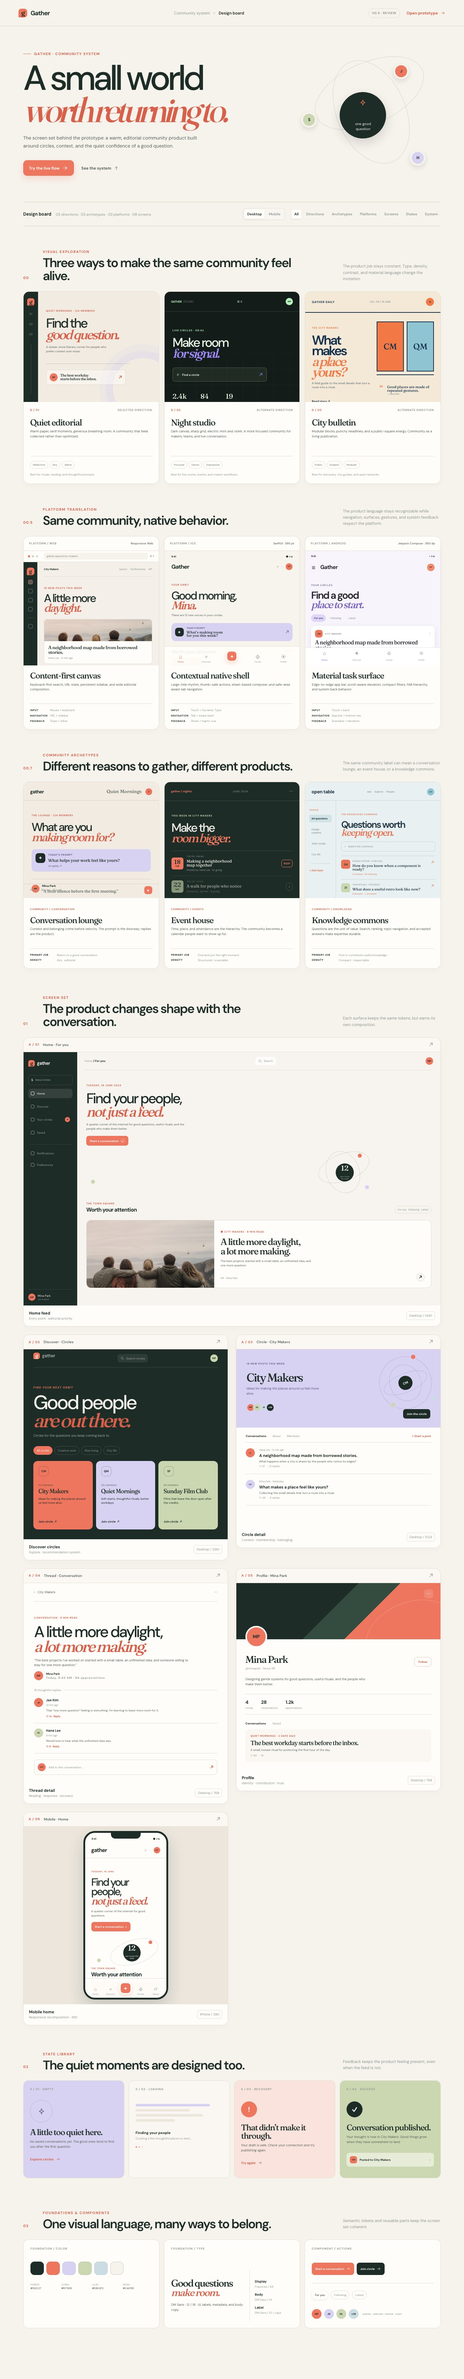
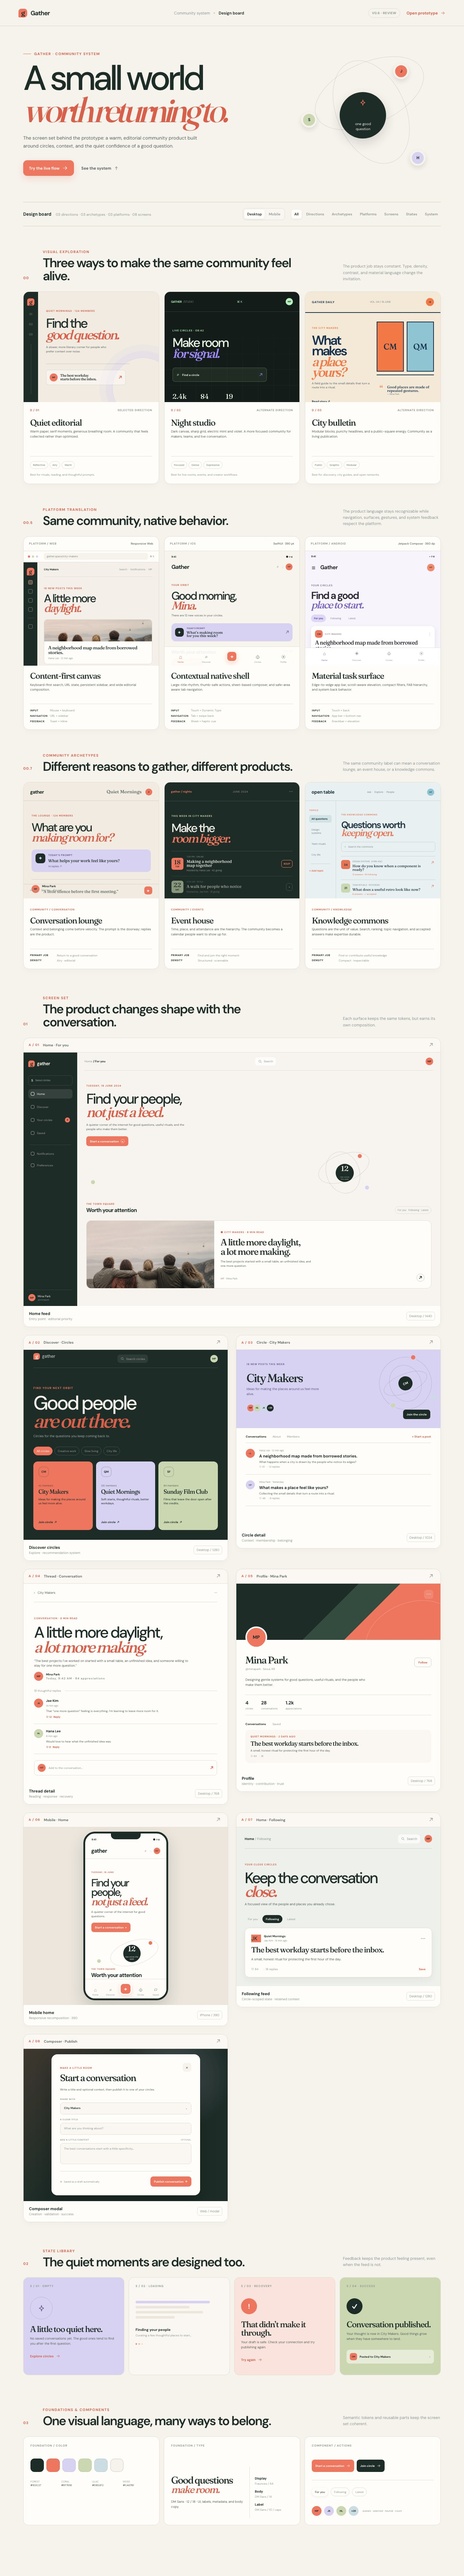
feat: expand community design handoff coverage

diff --git a/examples/community/board.css b/examples/community/board.css
@@ -195,6 +195,10 @@ button:focus-visible, a:focus-visible { outline: 3px solid rgba(239,118,94,.4); 
 /* miniature Profile screen */
 .canvas-profile { min-height: 490px; background: var(--surface); }.profile-cover { position: relative; height: 155px; background: linear-gradient(135deg, var(--forest) 0 47%, #344c40 47% 63%, var(--coral) 63%); }.profile-cover:after { position: absolute; right: -50px; bottom: -80px; width: 260px; height: 180px; border: 1px solid rgba(255,255,255,.25); border-radius: 50%; content: ""; transform: rotate(-23deg); }.profile-cover > span { position: absolute; bottom: -23px; left: 25px; z-index: 1; display: grid; place-items: center; width: 60px; height: 60px; border: 4px solid var(--surface); border-radius: 50%; background: var(--coral); color: var(--forest); font-size: 13px; font-weight: 700; }.profile-cover > button { position: absolute; top: 17px; right: 20px; width: 25px; height: 25px; border-radius: 7px; background: rgba(255,255,255,.12); color: white; }.profile-content { padding: 39px 25px 22px; }.profile-head { display: flex; align-items: center; justify-content: space-between; }.profile-head h3 { margin: 0 0 3px; color: var(--forest); font-family: var(--serif); font-size: 27px; font-weight: 500; letter-spacing: -.06em; }.profile-head p { margin: 0; color: var(--ink-faint); font-size: 8px; }.profile-head button { padding: 7px 10px; border: 1px solid var(--line-strong); border-radius: 7px; background: transparent; color: var(--coral-deep); font-size: 8px; font-weight: 700; }.profile-bio { max-width: 350px; margin: 19px 0; color: var(--ink-soft); font-size: 9px; line-height: 1.55; }.profile-stats { display: flex; gap: 22px; padding: 13px 0; border-top: 1px solid var(--line); border-bottom: 1px solid var(--line); }.profile-stats span { display: grid; gap: 3px; color: var(--ink-faint); font-size: 7px; }.profile-stats b { color: var(--forest); font-size: 13px; }.profile-tabs { display: flex; gap: 18px; padding: 19px 0 11px; color: var(--ink-faint); font-size: 8px; }.profile-tabs b { color: var(--ink); }.profile-post { display: grid; gap: 6px; padding: 14px; border-radius: 10px; background: var(--surface-soft); }.profile-post small { color: var(--coral-deep); font-size: 7px; font-weight: 700; letter-spacing: .1em; }.profile-post strong { color: var(--forest); font-family: var(--serif); font-size: 17px; font-weight: 500; letter-spacing: -.05em; line-height: 1.04; }.profile-post p { margin: 0; color: var(--ink-soft); font-size: 8px; }.profile-post span { color: var(--ink-faint); font-size: 7px; }
 
+/* miniature state and creation screens */
+.canvas-filtered { min-height: 420px; padding: 20px 23px 24px; background: #edf0eb; }.filtered-topbar { display: flex; align-items: center; gap: 12px; padding-bottom: 14px; border-bottom: 1px solid rgba(29,44,39,.14); color: var(--ink-faint); font-size: 9px; }.filtered-topbar > span:first-child { flex: 1; }.filtered-topbar > span:first-child b { color: var(--forest); }.filtered-topbar .mini-search { display: inline-flex; }.filtered-hero { padding: 30px 0 22px; }.filtered-hero small { color: var(--coral-deep); font-size: 7px; font-weight: 700; letter-spacing: .12em; }.filtered-hero h3 { margin: 11px 0 10px; color: var(--forest); font-size: clamp(28px, 4vw, 42px); font-weight: 500; letter-spacing: -.09em; line-height: .9; }.filtered-hero h3 em { color: var(--coral-deep); font-family: var(--serif); font-weight: 500; }.filtered-hero p { max-width: 350px; margin: 0; color: var(--ink-soft); font-size: 9px; line-height: 1.55; }.filtered-tabs { display: flex; gap: 4px; margin-bottom: 13px; }.filtered-tabs span { padding: 6px 9px; border-radius: 999px; color: var(--ink-faint); font-size: 8px; }.filtered-tabs .selected { background: var(--forest); color: var(--paper); font-weight: 700; }.filtered-post { display: grid; gap: 10px; padding: 17px; border: 1px solid var(--line); border-radius: 13px; background: var(--surface); box-shadow: 0 8px 18px rgba(39,45,41,.05); }.filtered-post-head { display: grid; grid-template-columns: 27px 1fr auto; gap: 8px; align-items: center; }.filtered-post-head > span:nth-child(2) { display: grid; gap: 3px; }.filtered-post-head b { color: var(--forest); font-size: 8px; }.filtered-post-head small { color: var(--ink-faint); font-size: 7px; }.filtered-post-head i { color: var(--ink-faint); font-size: 10px; font-style: normal; letter-spacing: .08em; }.filtered-post > strong { color: var(--forest); font-family: var(--serif); font-size: 21px; font-weight: 500; letter-spacing: -.05em; line-height: 1; }.filtered-post > p { margin: 0; color: var(--ink-soft); font-size: 9px; line-height: 1.5; }.filtered-post-actions { display: flex; gap: 13px; padding-top: 4px; color: var(--ink-faint); font-size: 8px; }.filtered-post-actions b { margin-left: auto; color: var(--coral-deep); }
+.canvas-composer { display: grid; place-items: center; min-height: 420px; background: var(--forest); }.composer-backdrop { position: absolute; inset: 0; background: radial-gradient(circle at 75% 18%, rgba(216,210,242,.28), transparent 28%), linear-gradient(135deg, rgba(239,118,94,.2), transparent 48%); opacity: .8; }.board-composer-card { position: relative; width: min(410px, calc(100% - 34px)); padding: 24px; border-radius: 16px; background: var(--surface); box-shadow: 0 22px 45px rgba(0,0,0,.22); }.board-composer-head { display: flex; align-items: flex-start; justify-content: space-between; gap: 14px; }.board-composer-head small { color: var(--coral-deep); font-size: 7px; font-weight: 700; letter-spacing: .12em; }.board-composer-head h3 { margin: 8px 0 0; color: var(--forest); font-family: var(--serif); font-size: 26px; font-weight: 500; letter-spacing: -.07em; line-height: .95; }.board-composer-head > span { display: grid; place-items: center; width: 24px; height: 24px; border-radius: 7px; background: var(--paper); color: var(--ink-soft); font-size: 14px; }.board-composer-copy { margin: 13px 0 17px; color: var(--ink-soft); font-size: 8px; line-height: 1.5; }.board-field { display: grid; gap: 5px; margin-top: 10px; }.board-field > small { color: var(--ink-faint); font-size: 6px; font-weight: 700; letter-spacing: .1em; }.board-field > small i { float: right; font-style: normal; font-weight: 400; letter-spacing: 0; }.board-field > b { min-height: 33px; padding: 9px 10px; border: 1px solid var(--line); border-radius: 8px; background: var(--surface-soft); color: var(--forest); font-size: 8px; font-weight: 600; }.board-field > b span { float: right; color: var(--ink-faint); }.board-field > .field-placeholder { color: var(--ink-faint); font-weight: 400; }.board-field-large > b { min-height: 58px; line-height: 1.45; }.board-composer-footer { display: flex; align-items: center; justify-content: space-between; gap: 10px; margin-top: 19px; padding-top: 14px; border-top: 1px solid var(--line); }.board-composer-footer > span { color: var(--ink-faint); font-size: 7px; }.board-composer-footer > span i { display: inline-block; width: 5px; height: 5px; margin-right: 4px; border-radius: 50%; background: var(--moss); }.board-composer-footer > strong { padding: 9px 10px; border-radius: 8px; background: var(--coral); color: white; font-size: 8px; }
+
 /* miniature mobile screen */
 .canvas-mobile { display: grid; place-items: center; min-height: 490px; background: var(--paper-deep); }.phone-frame { position: relative; width: 234px; height: 465px; overflow: hidden; border: 5px solid var(--forest); border-radius: 32px; background: var(--surface); box-shadow: 0 20px 45px rgba(29,44,39,.18); }.phone-notch { position: absolute; top: 0; left: 50%; z-index: 2; width: 82px; height: 16px; border-radius: 0 0 12px 12px; background: var(--forest); transform: translateX(-50%); }.phone-status { display: flex; justify-content: space-between; padding: 12px 18px 0; color: var(--forest); font-size: 7px; font-weight: 700; }.phone-top { display: flex; align-items: center; justify-content: space-between; padding: 17px 17px 11px; border-bottom: 1px solid var(--line); color: var(--forest); font-size: 11px; }.phone-top > b { font-size: 15px; letter-spacing: -.06em; }.phone-top > span { display: flex; align-items: center; color: var(--ink-faint); font-size: 10px; }.phone-top i { display: grid; place-items: center; width: 18px; height: 18px; border-radius: 50%; background: var(--coral); color: var(--forest); font-size: 6px; font-style: normal; }.phone-body { padding: 23px 17px 74px; }.phone-kicker, .phone-section small, .phone-story > span { color: var(--coral-deep); font-size: 6px; font-weight: 700; letter-spacing: .12em; }.phone-body h3 { margin: 9px 0 8px; color: var(--forest); font-size: 29px; font-weight: 500; letter-spacing: -.09em; line-height: .9; }.phone-body > p { max-width: 180px; margin: 0 0 12px; color: var(--ink-soft); font-size: 8px; line-height: 1.5; }.phone-body > button { padding: 8px 10px; border-radius: 7px; background: var(--coral); color: white; font-size: 8px; font-weight: 700; }.phone-orbit { position: relative; height: 85px; margin-top: 13px; }.phone-orbit:before { position: absolute; top: 10px; right: 3px; width: 135px; height: 65px; border: 1px solid rgba(29,44,39,.14); border-radius: 50%; content: ""; transform: rotate(-17deg); }.phone-orbit span { position: absolute; top: 22px; right: 54px; display: grid; place-items: center; width: 48px; height: 48px; border-radius: 50%; background: var(--forest); color: white; font-family: var(--serif); font-size: 20px; line-height: .7; }.phone-orbit span small { margin-top: 4px; font-family: var(--sans); font-size: 5px; line-height: 1.2; text-align: center; }.phone-orbit i { position: absolute; z-index: 1; width: 14px; height: 14px; border: 2px solid var(--surface); border-radius: 50%; }.phone-orbit i:nth-child(1) { top: 10px; right: 20px; background: var(--coral); }.phone-orbit i:nth-child(2) { top: 60px; left: 14px; background: var(--moss); }.phone-section { display: grid; gap: 3px; margin-bottom: 9px; }.phone-section b { color: var(--forest); font-size: 15px; letter-spacing: -.05em; }.phone-story { display: grid; gap: 7px; overflow: hidden; border: 1px solid var(--line); border-radius: 10px; background: var(--surface); }.phone-story > div { height: 82px; background: linear-gradient(145deg, rgba(239,118,94,.13), rgba(29,44,39,.16)), url('./assets/editorial/group-overlook.jpg') center/cover; }.phone-story > span, .phone-story > strong, .phone-story > small { margin: 0 11px; }.phone-story > strong { color: var(--forest); font-family: var(--serif); font-size: 17px; font-weight: 500; letter-spacing: -.06em; line-height: 1.02; }.phone-story > small { padding-bottom: 11px; color: var(--ink-faint); font-size: 7px; }.phone-nav { position: absolute; right: 0; bottom: 0; left: 0; display: grid; grid-template-columns: repeat(5, 1fr); align-items: end; height: 54px; padding: 8px 8px 6px; border-top: 1px solid var(--line); background: rgba(255,253,249,.96); }.phone-nav span { display: grid; justify-items: center; gap: 1px; color: var(--ink-faint); font-size: 13px; }.phone-nav small { font-size: 6px; }.phone-nav b { display: grid; place-items: center; width: 33px; height: 33px; margin: -8px auto 4px; border: 3px solid var(--surface); border-radius: 11px; background: var(--coral); color: white; box-shadow: 0 5px 12px rgba(239,118,94,.25); }
 
@@ -213,7 +217,7 @@ button:focus-visible, a:focus-visible { outline: 3px solid rgba(239,118,94,.4); 
   .board-header { min-height: 62px; }.board-crumb, .version-chip { display: none; }.open-prototype { font-size: 10px; }.board-main { padding-right: 16px; padding-left: 16px; }.board-intro { display: block; min-height: 0; padding: 55px 0 42px; }.board-intro h1 { font-size: clamp(54px, 16vw, 88px); }.intro-description { font-size: 12px; }.intro-art { width: 270px; height: 230px; margin: 35px auto 0; transform: none; }.intro-art-center { top: 64px; right: 85px; width: 106px; height: 106px; }.ring-a { width: 260px; height: 140px; }.ring-b { right: 42px; width: 170px; height: 220px; }.orb-a { top: 7px; right: 32px; }.orb-b { top: 108px; left: 7px; }.orb-c { right: 0; bottom: 7px; }.board-toolbar { display: block; }.board-toolbar-label { display: grid; gap: 3px; margin-bottom: 13px; }.board-controls { justify-content: space-between; gap: 6px; overflow: auto; }.board-filters { flex: 0 0 auto; }.board-section { padding-top: 55px; }.section-marker { grid-template-columns: 25px 1fr; gap: 12px; align-items: start; }.section-marker > span { padding-top: 3px; }.section-marker .section-note { grid-column: 2; margin-top: -3px; }.section-marker h2 { font-size: 27px; }.artboard-canvas { min-height: 410px; }.canvas-home { grid-template-columns: 1fr; min-height: 460px; }.mini-sidebar { display: none; }.mini-home-body { grid-template-columns: 1fr; padding: 24px 0; }.mini-hello, .mini-section-head, .mini-feature { grid-column: auto; }.mini-orbit { height: 105px; }.mini-feature { grid-template-columns: 42% 1fr; }.canvas-discover { padding-right: 18px; padding-left: 18px; }.discover-cards { grid-template-columns: 1fr; }.circle-tile { min-height: 130px; }.circle-tile > span { float: left; margin: 0 11px 20px 0; }.circle-tile p { min-height: 0; }.circle-cover-art { right: -15px; opacity: .75; }.circle-cover { padding-right: 19px; padding-left: 19px; }.circle-cover > button { right: 19px; }.circle-content { padding-right: 19px; padding-left: 19px; }.circle-tabs { gap: 9px; }.circle-tabs em { display: none; }.canvas-thread { padding-right: 19px; padding-left: 19px; }.thread-title h3 { font-size: 34px; }.profile-content { padding-right: 19px; padding-left: 19px; }.profile-stats { gap: 13px; }.phone-frame { transform: scale(.9); }.state-grid, .system-grid { grid-template-columns: 1fr; }.component-card { grid-column: auto; }.type-card { display: block; }.type-card > .state-index { margin-bottom: 24px; }.type-scale { margin-top: 18px; padding-top: 12px; padding-left: 0; border-top: 1px solid var(--line); border-left: 0; grid-template-columns: repeat(2, 1fr); }.type-scale b { margin-top: 0; }.type-scale span { text-align: right; }.board-dialog .dialog-inner { padding: 25px 20px; }
 }
 @media (max-width: 420px) {
-  .board-header { padding-right: 14px; padding-left: 14px; }.board-brand { font-size: 15px; }.open-prototype { font-size: 9px; }.board-intro h1 { font-size: 56px; }.intro-actions { align-items: flex-start; flex-direction: column; gap: 12px; }.section-marker h2 { font-size: 24px; }.artboard-caption { align-items: flex-start; flex-direction: column; gap: 8px; }.canvas-home { min-height: 470px; }.mini-home { padding-right: 15px; padding-left: 15px; }.mini-feature { grid-template-columns: 38% 1fr; }.mini-feature > div:last-child { padding: 12px; }.mini-feature h4 { font-size: 18px; }.canvas-circle, .canvas-thread, .canvas-profile { min-height: 475px; }.thread-title h3 { font-size: 30px; }.phone-frame { transform: scale(.82); }
+  .board-header { padding-right: 14px; padding-left: 14px; }.board-brand { font-size: 15px; }.open-prototype { font-size: 9px; }.board-intro h1 { font-size: 56px; }.intro-actions { align-items: flex-start; flex-direction: column; gap: 12px; }.section-marker h2 { font-size: 24px; }.artboard-caption { align-items: flex-start; flex-direction: column; gap: 8px; }.canvas-home { min-height: 470px; }.mini-home { padding-right: 15px; padding-left: 15px; }.mini-feature { grid-template-columns: 38% 1fr; }.mini-feature > div:last-child { padding: 12px; }.mini-feature h4 { font-size: 18px; }.canvas-circle, .canvas-thread, .canvas-profile, .canvas-filtered, .canvas-composer { min-height: 475px; }.filtered-hero h3 { font-size: 32px; }.filtered-topbar { gap: 7px; }.filtered-topbar .mini-search { display: none; }.board-composer-card { padding: 19px; }.board-composer-head h3 { font-size: 23px; }.thread-title h3 { font-size: 30px; }.phone-frame { transform: scale(.82); }
 }
 @media (max-width: 1060px) {
   .archetype-grid { grid-template-columns: repeat(2, minmax(0, 1fr)); }

diff --git a/examples/community/board.html b/examples/community/board.html
@@ -35,7 +35,7 @@
     <header class="board-header">
       <a class="board-brand" href="./index.html" aria-label="Back to Gather home"><span class="board-brand-mark">g</span><span>Gather</span></a>
       <div class="board-crumb"><span>Community system</span><i></i><strong>Design board</strong></div>
-      <div class="board-header-actions"><span class="version-chip">v0.5 · review</span><a class="open-prototype" href="./index.html">Open prototype <svg class="board-icon" aria-hidden="true"><use href="#board-arrow" /></svg></a></div>
+      <div class="board-header-actions"><span class="version-chip">v0.6 · review</span><a class="open-prototype" href="./index.html">Open prototype <svg class="board-icon" aria-hidden="true"><use href="#board-arrow" /></svg></a></div>
     </header>
 
     <main class="board-main" id="boardMain" data-view="desktop">
@@ -161,6 +161,18 @@
             <div class="artboard-canvas canvas-mobile"><div class="phone-frame"><div class="phone-notch"></div><div class="phone-status"><span>9:41</span><span>● ◔ ▮</span></div><div class="phone-top"><b>gather</b><span>⌕ &nbsp; ◌ &nbsp; <i>MP</i></span></div><div class="phone-body"><small class="phone-kicker">TUESDAY, 18 JUNE</small><h3>Find your people,<br /><em>not just a feed.</em></h3><p>A quieter corner of the internet for good questions.</p><button>Start a conversation&nbsp; +</button><div class="phone-orbit"><i></i><i></i><span>12<small>new voices this week</small></span></div><div class="phone-section"><small>THE TOWN SQUARE</small><b>Worth your attention</b></div><div class="phone-story"><div></div><span>● CITY MAKERS · 8 MIN READ</span><strong>A little more daylight,<br />a lot more making.</strong><small>♡ 84 &nbsp; ◌ 18</small></div></div><div class="phone-nav"><span>⌂<small>Home</small></span><span>⌕<small>Discover</small></span><b>+</b><span>♧<small>Circles</small></span><span>▱<small>Saved</small></span></div></div></div>
             <div class="artboard-caption"><div><strong>Mobile home</strong><span>Responsive recomposition · 390</span></div><span class="caption-chip">iPhone / 390</span></div>
           </article>
+
+          <article class="artboard artboard-filtered" data-board-type="screens" data-artboard-title="Home / Following">
+            <div class="artboard-meta"><span class="artboard-number">A / 07</span><span class="artboard-label">Home · Following</span><button type="button" class="zoom-button" aria-label="Open Following screen details" data-open-artboard="Home / Following">↗</button></div>
+            <div class="artboard-canvas canvas-filtered"><div class="filtered-topbar"><span><b>Home</b> / Following</span><span class="mini-search"><svg class="board-icon" aria-hidden="true"><use href="#board-search" /></svg> Search</span><b class="mini-avatar">MP</b></div><div class="filtered-hero"><small>YOUR CLOSE CIRCLES</small><h3>Keep the conversation<br /><em>close.</em></h3><p>A focused view of the people and places you already chose.</p></div><div class="filtered-tabs"><span>For you</span><span class="selected">Following</span><span>Latest</span></div><div class="filtered-post"><div class="filtered-post-head"><span class="coral-avatar">JK</span><span><b>Quiet Mornings</b><small>Jae Kim · 14 min ago</small></span><i>•••</i></div><strong>The best workday starts before the inbox.</strong><p>A small, honest ritual for protecting the first hour of the day.</p><div class="filtered-post-actions"><span>♡ 84</span><span>◌ 18 replies</span><b>Save</b></div></div></div>
+            <div class="artboard-caption"><div><strong>Following feed</strong><span>Circle-scoped state · retained context</span></div><span class="caption-chip">Desktop / 1280</span></div>
+          </article>
+
+          <article class="artboard artboard-composer" data-board-type="screens" data-artboard-title="Composer / Modal">
+            <div class="artboard-meta"><span class="artboard-number">A / 08</span><span class="artboard-label">Composer · Publish</span><button type="button" class="zoom-button" aria-label="Open Composer screen details" data-open-artboard="Composer / Modal">↗</button></div>
+            <div class="artboard-canvas canvas-composer"><div class="composer-backdrop"></div><div class="board-composer-card"><div class="board-composer-head"><div><small>MAKE A LITTLE ROOM</small><h3>Start a conversation</h3></div><span>×</span></div><p class="board-composer-copy">Write a title and optional context, then publish it to one of your circles.</p><div class="board-field"><small>SHARE WITH</small><b>City Makers <span>⌄</span></b></div><div class="board-field"><small>A CLEAR TITLE</small><b class="field-placeholder">What are you thinking about?</b></div><div class="board-field board-field-large"><small>ADD A LITTLE CONTEXT <i>OPTIONAL</i></small><b class="field-placeholder">The best conversations start with a little specificity…</b></div><div class="board-composer-footer"><span><i></i> Saved as a draft automatically</span><strong>Publish conversation&nbsp; ↑</strong></div></div></div>
+            <div class="artboard-caption"><div><strong>Composer modal</strong><span>Creation · validation · success</span></div><span class="caption-chip">Web / modal</span></div>
+          </article>
         </div>
       </section>
 
@@ -184,7 +196,7 @@
       </section>
     </main>
 
-    <dialog class="board-dialog" id="boardDialog" aria-labelledby="dialogTitle"><div class="dialog-inner"><button class="dialog-close" type="button" id="closeBoardDialog" aria-label="Close screen details"><svg class="board-icon" aria-hidden="true"><use href="#board-close" /></svg></button><p class="board-eyebrow">Prototype handoff</p><h2 id="dialogTitle">Home / For you</h2><p id="dialogDescription">Entry point · editorial priority</p><div class="dialog-detail-grid"><span><b>Route</b><strong>/home</strong></span><span><b>Viewport</b><strong>1440 × 1000</strong></span><span><b>Primary action</b><strong>Start a conversation</strong></span><span><b>States</b><strong>Default · filtered · empty</strong></span></div><a class="board-primary" href="./index.html">Open live surface <svg class="board-icon" aria-hidden="true"><use href="#board-arrow" /></svg></a></div></dialog>
+    <dialog class="board-dialog" id="boardDialog" aria-labelledby="dialogTitle" aria-describedby="dialogDescription"><div class="dialog-inner"><button class="dialog-close" type="button" id="closeBoardDialog" aria-label="Close screen details"><svg class="board-icon" aria-hidden="true"><use href="#board-close" /></svg></button><p class="board-eyebrow">Prototype handoff</p><h2 id="dialogTitle">Home / For you</h2><p id="dialogDescription">Entry point · editorial priority</p><div class="dialog-detail-grid"><span><b>Route</b><strong>/home</strong></span><span><b>Viewport</b><strong>1440 × 1000</strong></span><span><b>Primary action</b><strong>Start a conversation</strong></span><span><b>States</b><strong>Default · filtered · empty</strong></span></div><a class="board-primary" href="./index.html">Open live surface <svg class="board-icon" aria-hidden="true"><use href="#board-arrow" /></svg></a></div></dialog>
     <div class="board-toast" id="boardToast" role="status" aria-live="polite"></div>
     <script src="./board.js"></script>
   </body>

diff --git a/examples/community/board.js b/examples/community/board.js
@@ -22,6 +22,8 @@ const artboardDescriptions = {
   "Thread / Conversation": "Reading · response · recovery",
   "Profile / Mina Park": "Identity · contribution · trust",
   "Mobile / Home": "Responsive recomposition · 390",
+  "Home / Following": "Circle-scoped state · retained context",
+  "Composer / Modal": "Creation · validation · success",
 };
 
 function showToast(message) {
@@ -140,5 +142,7 @@ document.querySelectorAll("[data-scroll-to]").forEach((button) => {
 document.addEventListener("keydown", (event) => {
   if (event.key === "Escape" && !boardDialog.open && /\bis-open\b/.test(boardDialog.className)) closeArtboard();
 });
+
+window.addEventListener("popstate", readUrlState);
 
 readUrlState();

diff --git a/examples/community/app.js b/examples/community/app.js
@@ -347,5 +347,10 @@ document.addEventListener("keydown", (event) => {
   }
 });
 
+window.addEventListener("popstate", () => {
+  readUrlState();
+  renderFeed();
+});
+
 readUrlState();
 renderFeed();

diff --git a/tests/test_community_example_contract.py b/tests/test_community_example_contract.py
@@ -1,4 +1,5 @@
 import unittest
+import re
 from pathlib import Path
 
 
@@ -58,6 +59,16 @@ class CommunityExampleContractTests(unittest.TestCase):
         self.assertIn("history.replaceState", board_js)
         self.assertIn("state.dialogTrigger", board_js)
         self.assertIn('boardDialog.addEventListener("cancel"', board_js)
+        self.assertIn('aria-describedby="dialogDescription"', board_html)
+        self.assertIn('window.addEventListener("popstate", readUrlState)', board_js)
+        self.assertEqual(len(re.findall(r'data-artboard-title="[^"]+"', board_html)), 8)
+        self.assertIn('data-artboard-title="Home / Following"', board_html)
+        self.assertIn('data-artboard-title="Composer / Modal"', board_html)
+
+    def test_prototype_rehydrates_url_state_after_history_changes(self):
+        self.assertIn('window.addEventListener("popstate"', self.js)
+        self.assertIn('readUrlState();', self.js)
+        self.assertIn('renderFeed();', self.js)
 
 
 if __name__ == "__main__":

diff --git a/examples/community/design-spec.md b/examples/community/design-spec.md
@@ -129,7 +129,7 @@ board.html
 | Mobile 390 × 844 | [`board-390.jpg`](evidence/board-390.jpg), [`prototype-390.jpg`](evidence/prototype-390.jpg) | One-column cards, horizontal filters, bottom navigation, composer, empty/loading/recovery/success states |
 | Native intent: iOS 390 pt / Android 360 dp | Platform translation artboards | Large-title/tab-bar and app-bar/FAB behavior are specified; native runtime remains a target, not a shipped surface |
 
-The live surface was checked after the direction, platform, and archetype boards were added. Runtime QA also exercised composer validation → recovery → publish success, feed filter state, mobile drawer open → Escape recovery, URL restoration, local font loading, search URL synchronization, composer focus return, drawer focus return, and skip-link navigation. The [evidence manifest](evidence/manifest.json) binds each capture and runtime assertion to its route, viewport, and represented state; run `npm run test:browser` and `npm run validate:evidence` to verify the interaction contract and JPEG dimensions. Evidence captures are committed under `examples/community/evidence/`; they are full-page JPEG screenshots produced from the local server at the viewport sizes named above. Reproduce the surface with the command in [Run locally](#run-locally), then open `/board.html` and `/index.html` at the declared sizes. The static example has no backend or network dependency; loading, empty, recovery, validation, and success are represented as deterministic prototype states. Contributors can regenerate the capture matrix with `npm install`, `npx playwright install chromium`, and `npm run capture:community`; the command reads the manifest instead of maintaining a second list of viewports.
+The live surface was checked after the direction, platform, and archetype boards were added. Runtime QA also exercised composer validation → recovery → publish success, feed filter state, mobile drawer open → Escape recovery, URL restoration, prototype and board history-state rehydration, local font loading, search URL synchronization, composer focus return, drawer focus return, board dialog focus return, and skip-link navigation. The [evidence manifest](evidence/manifest.json) binds each capture and runtime assertion to its route, viewport, and represented state; run `npm run test:browser` and `npm run validate:evidence` to verify the interaction contract and JPEG dimensions. Evidence captures are committed under `examples/community/evidence/`; they are full-page JPEG screenshots produced from the local server at the viewport sizes named above. Reproduce the surface with the command in [Run locally](#run-locally), then open `/board.html` and `/index.html` at the declared sizes. The static example has no backend or network dependency; loading, empty, recovery, validation, and success are represented as deterministic prototype states. Contributors can regenerate the capture matrix with `npm install`, `npx playwright install chromium`, and `npm run capture:community`; the command reads the manifest instead of maintaining a second list of viewports.
 
 ### Review scores
 

diff --git a/docs/superpowers/plans/2026-08-21-design-skills-v0.7-audit-and-screen-coverage.md b/docs/superpowers/plans/2026-08-21-design-skills-v0.7-audit-and-screen-coverage.md
@@ -1,0 +1,21 @@
+# Design Skills v0.7 Audit And Screen Coverage Roadmap
+
+## Goal
+
+Turn the community reference surface's next visual review into an honest, production-minded handoff: every declared core screen is visible on the board, the handoff dialog is fully described to assistive technology, and URL-driven review state can rehydrate after browser history changes.
+
+## Scope
+
+- [x] Capture the current board, screen-detail dialog, prototype shell, composer, validation, and publish flow before editing.
+- [x] Add the two declared production states as board artboards: `Home / Following` and `Composer / Modal`.
+- [x] Connect the board dialog to its dynamic description with `aria-describedby`.
+- [x] Rehydrate prototype and board state on `popstate` without dropping unknown query parameters.
+- [x] Add contract coverage for the eight-artboard inventory and history listeners.
+- [x] Refresh representative PNG baselines after the board surface changes.
+- [x] Run the Python contract suite, browser runtime QA, visual regression gate, evidence validation, and repository quality checks.
+
+## Review notes
+
+The audit found no critical or high visual breakage in the captured surface. The main review risk was handoff honesty: the toolbar promised eight screens while only six screen artboards were rendered. The added variants make filtered-feed context and the creation flow inspectable without relying on prose in the design spec.
+
+This slice remains `review-ready`, not `release-ready`: native runtime evidence, backend integration, and deployment checks are still intentionally outside the static example's scope.

diff --git a/README.md b/README.md
@@ -41,7 +41,7 @@ npm run test:browser
 npm run test:visual
 ```
 
-`npm run test:browser` proves URL restoration, local font loading, search URL synchronization, composer focus return, mobile drawer focus return, and skip-link navigation in Chromium.
+`npm run test:browser` proves URL restoration, history-state rehydration, local font loading, search URL synchronization, composer focus return, mobile drawer focus return, board dialog focus return, and skip-link navigation in Chromium.
 
 ## Quality checks
 
@@ -65,4 +65,4 @@ The community reference surface is intentionally `review-ready`, not `release-re
 
 Read [`CONTRIBUTING.md`](CONTRIBUTING.md) before opening a change. The short version is: preserve the existing product decisions, add evidence for new states or viewports, run `npm run ci:quality`, and describe any remaining finding with severity, evidence, and next action.
 
-The current roadmap is [`docs/superpowers/plans/2026-08-21-design-skills-v0.6-visual-regression-baseline.md`](docs/superpowers/plans/2026-08-21-design-skills-v0.6-visual-regression-baseline.md).
+The current roadmap is [`docs/superpowers/plans/2026-08-21-design-skills-v0.7-audit-and-screen-coverage.md`](docs/superpowers/plans/2026-08-21-design-skills-v0.7-audit-and-screen-coverage.md).
